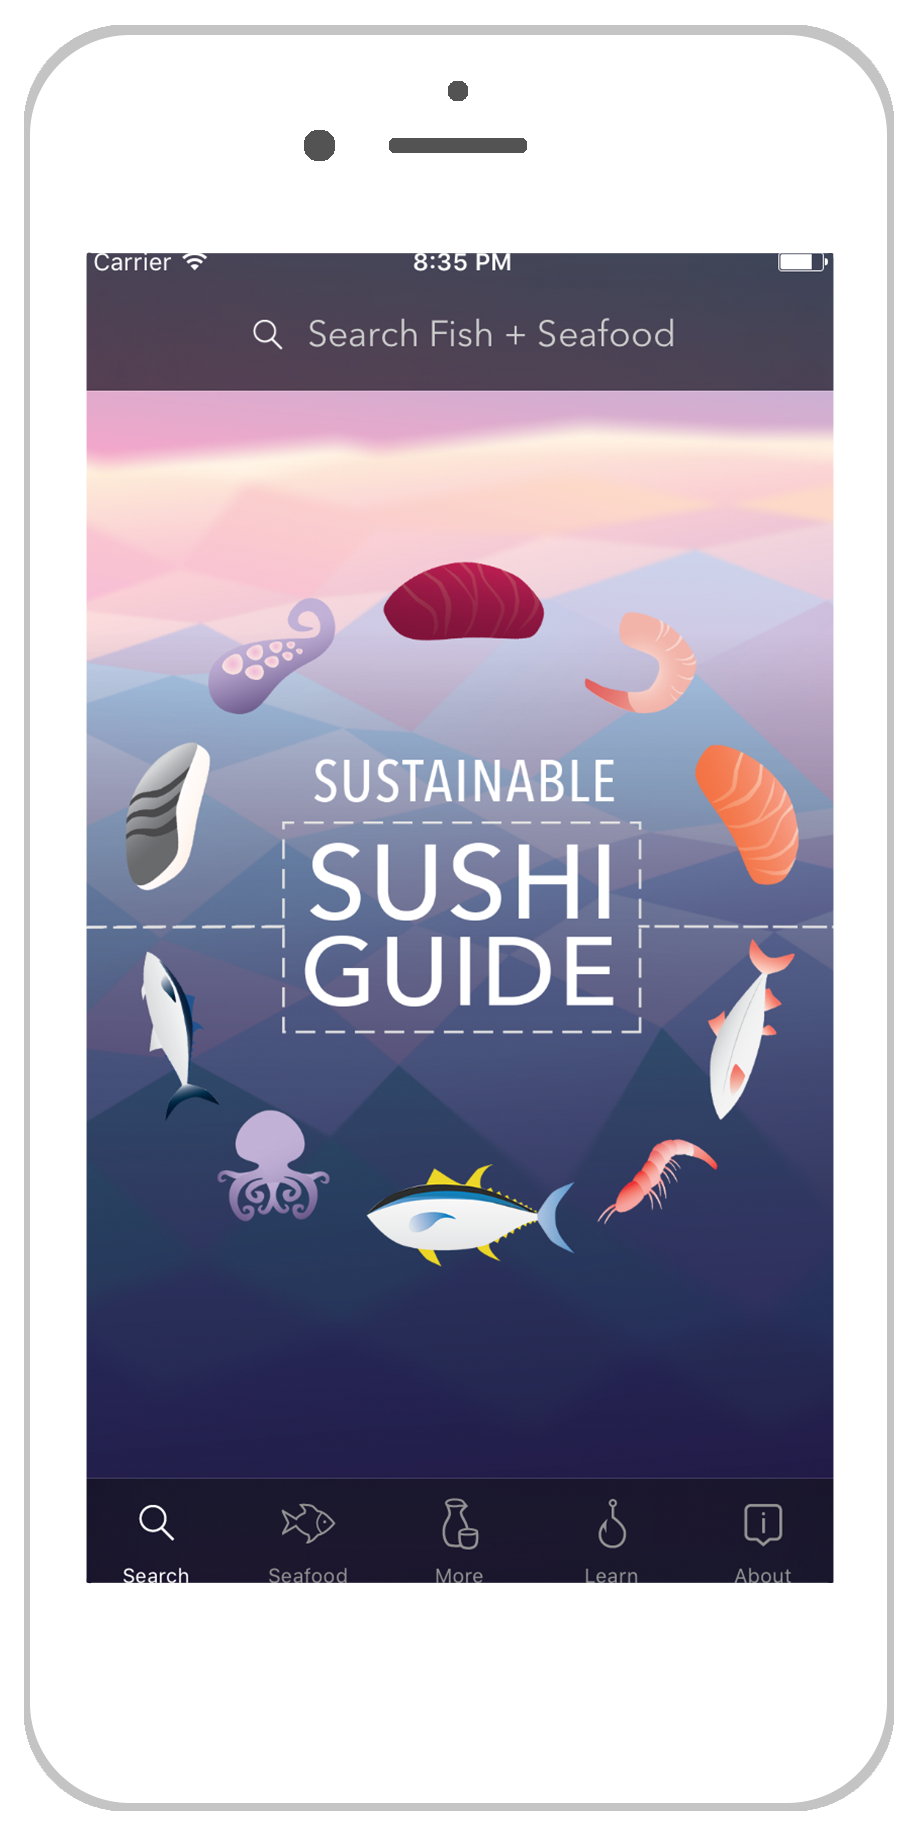
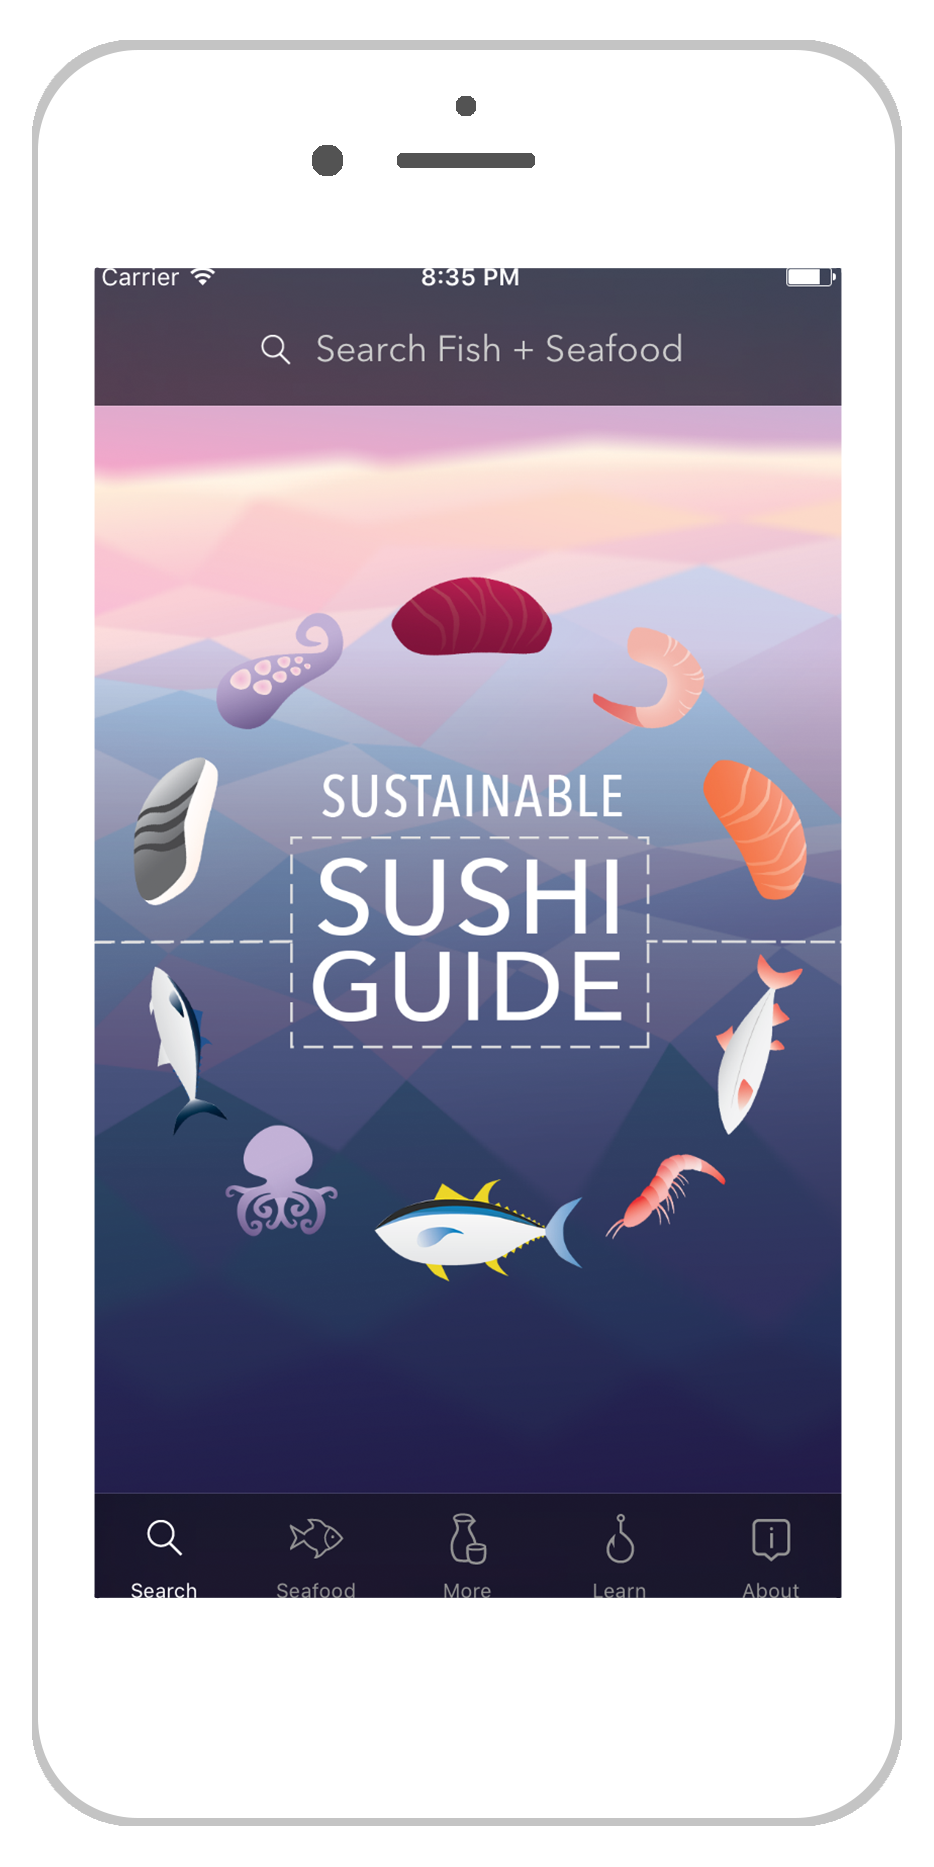
formatting

diff --git a/index.html b/index.html
@@ -56,9 +56,9 @@
 	</div>
 
 	<div id="screenshots">
-		<div class="screenshot" style="margin-right: -20px"><img src="images/screenshot-1.png"></div>
+		<div class="screenshot"><img src="images/screenshot-1.png"></div>
 		<div class="screenshot"><img src="images/screenshot-2.png"></div>
-		<div class="screenshot" style="margin-left: -20px"><img src="images/screenshot-3.png"></div>
+		<div class="screenshot"><img src="images/screenshot-3.png"></div>
 	</div>
 
 	<div id="presskit">

diff --git a/css/styles.css b/css/styles.css
@@ -77,7 +77,7 @@ a:hover {
 }
 
 #screenshots {
-	max-width: 860px;
+	max-width: 900px;
 	margin: auto;
 	padding-top: 30px;
 }
